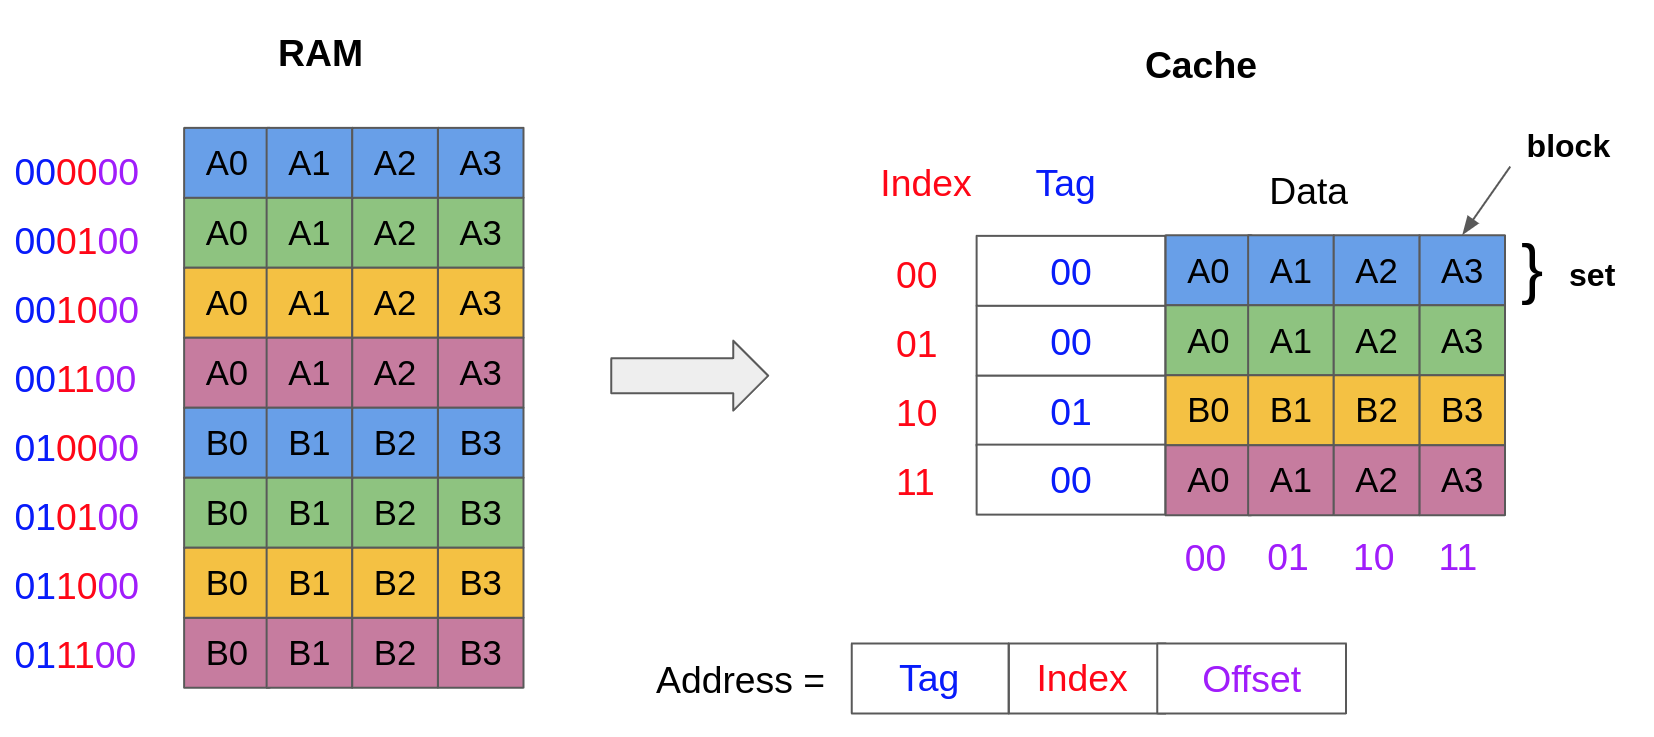
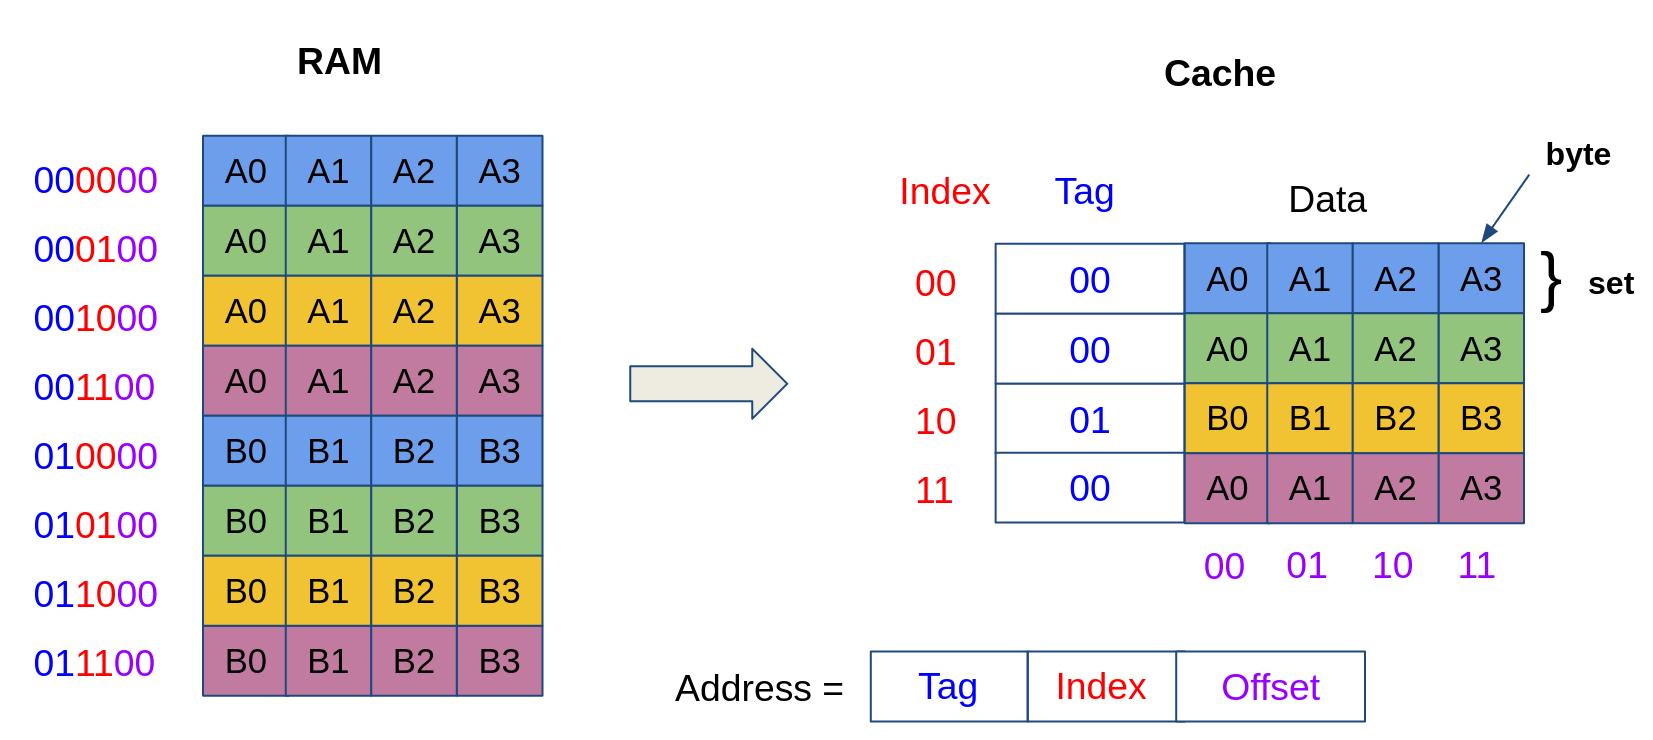
Fixed some terminology mistakes

diff --git a/_exercises/cache.md b/_exercises/cache.md
@@ -459,8 +459,10 @@ in the cache.
 
 ## Direct mapping
 
-Let us start with the structure of the cache. The cache is a table that contains
-multiple rows, these are called the **cache sets**. A cache set can include one or more cache blocks (a block is sometimes also called a cache line, which can be
+Let us start with the structure of the cache. In our examples, we consider
+byte-addressable memory, meaning that data is stored and accessed byte-per-byte
+(contrary to a word-addressable memory where data is stored word-per-word).
+The cache is a table that contains multiple rows, these are called the **cache sets**. A cache set can include one or more **cache blocks** (a block is sometimes also called a cache line, which can be
 slightly confusing in our representation, since a *cache set* is represented
 as a row [or line] in the cache table, which can contain multiple *cache lines*).
 
@@ -470,7 +472,7 @@ memory address to a *unique* block in the cache.
 Take for instance the cache model given below, where each cache set only
 contains a single block. Given a memory address, the index of the corresponding
 cache set is determined using the two least significant bits of the address (`index = adress %
-4`). Because multiple addresses map to a single cache line, the cache also needs
+4`). Because multiple addresses map to a single cache block, the cache also needs
 to keep track of a **tag**, corresponding to the most significant bits of the
 address. Therefore, given an address, the index determines where to look for the
 data in the cache and the tag indicates whether we have a cache hit or a cache
@@ -486,24 +488,22 @@ the tag in the cache at index `01` is `00`. However, accessing the address
 `0010` (i.e. tag=`00`, index=`10`) results in a cache miss because the tag in
 the cache at index `10` is `10`.
 
-The data in one cache line typically contains more than one byte. This is to
+The data in one cache block typically contains more than one byte. This is to
 enable spatial locality: when the data from a certain address is loaded, the
 contents of the neighboring memory locations are also placed in the cache, in
-case they are also accessed in the future. The size of one of these data blocks
-is called the *block size*.
+case they are also accessed in the future.
 
-For instance, in the cache model given below, each cache set is made of 4 blocks.
-The lower bits of the address correspond to the offset of the data in a cache
-set (i.e. which cache block). For instance, the address `001000` corresponds to
-the value `A0`, while the address `001001` corresponds to the value `A1`.
+For instance, in the cache model given below, the size of a block is 4 bytes. The
+lower bits of the address correspond to the offset of the data in a cache block.
+For instance, the address `001000` corresponds to the value `A0`, while the
+address `001001` corresponds to the value `A1`.
 
 ![Illustration of a direct mapped
 cache where a cache set contains 2 cache blocks](/exercises/7-cache/direct_mapped_cache2.png){: .center-image }
 
 > :bulb: **Summary.**\\
-> A cache is made up of 2^k sets (or cache lines), containing 2^b blocks.
 > A memory address (of size 32 bits) is composed of:
-> 1. an offset (the least significant bits of *b*) which determines the cache block;
+> 1. an offset (the least significant bits of *b*) which determines the offset into one cache block;
 > 2. an index (the next k bits), which determines the cache set;
 > 3. a tag (the remaining 32-(k+b) most significant bits), which determines whether
 > we have a cache miss or a cache hit.
